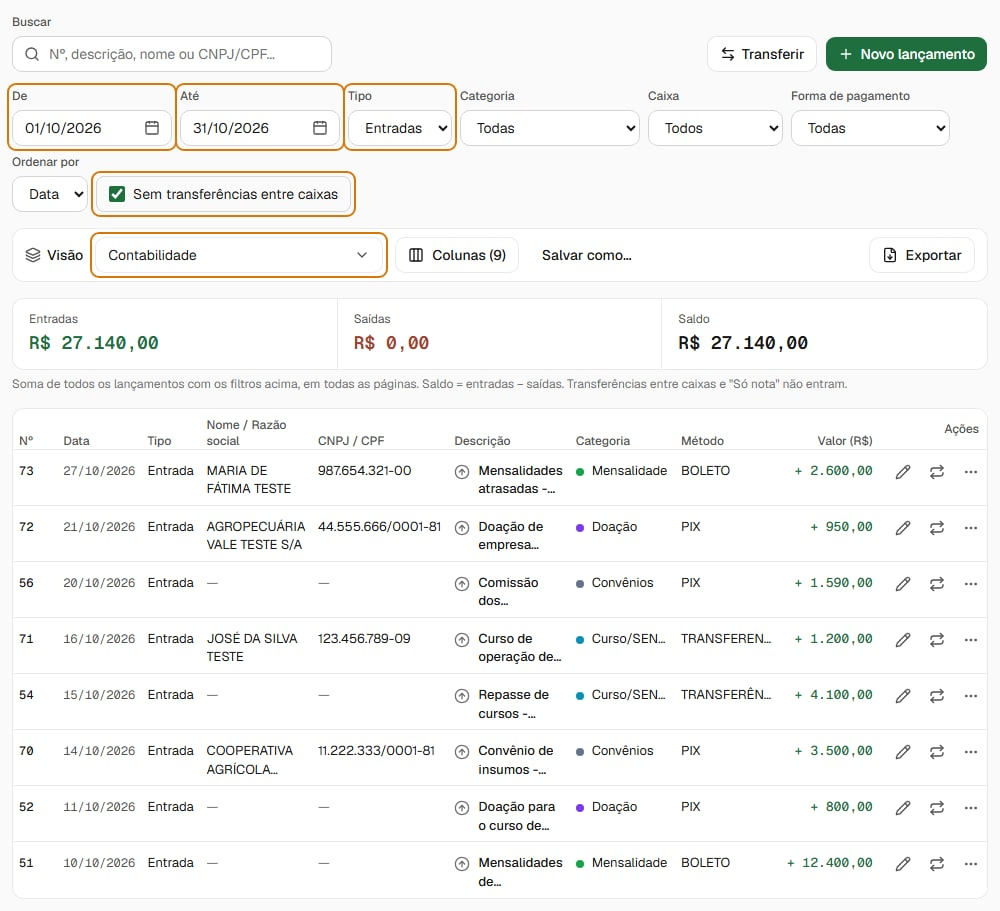
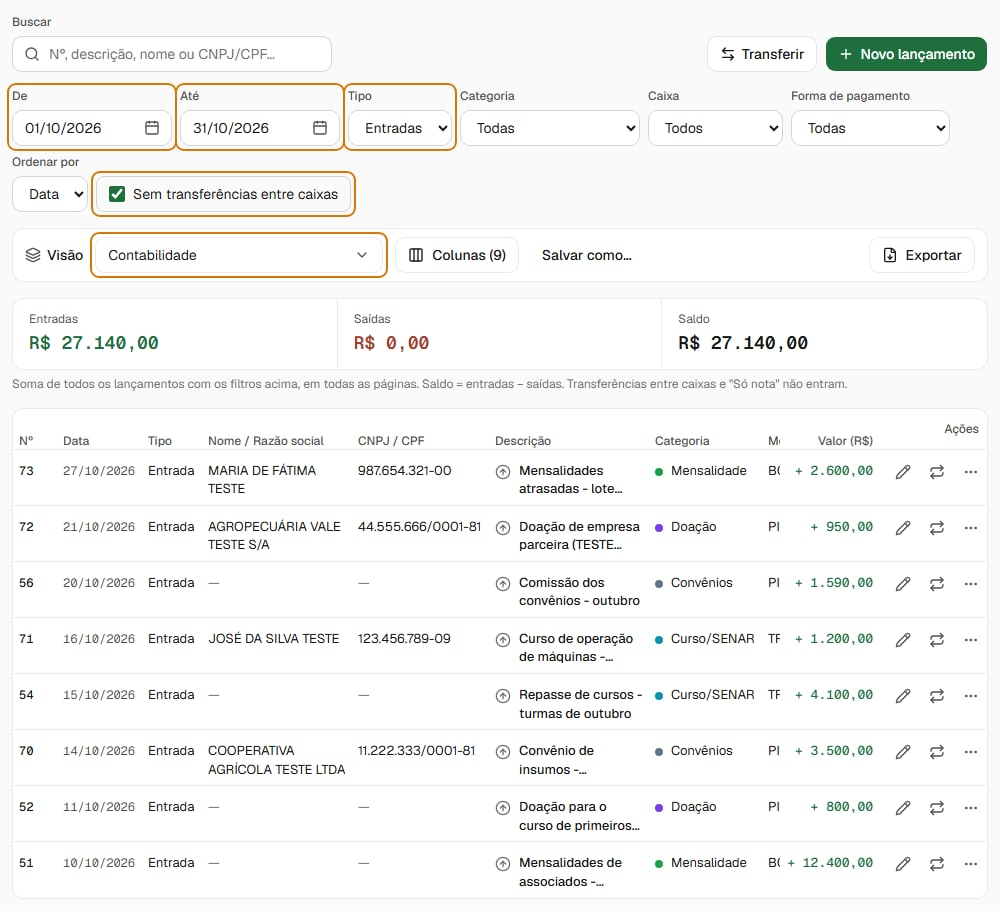
Ajuda: prints da SR-153 e acertos da homologação (SR-151)
Os prints 01, 02, 03, 04, 06 e 07 das visões trocam pelos refeitos depois
da SR-153. Visões e relatório de receitas dizem que, quando a tabela rola
de lado, o Valor (R$) e Ações ficam presos à direita. Visões e Auditoria
deixam claro que o "O que mudou" aparece no Editou e no Excluiu, e não
no Criou. Banners: título só de pontuação não é lido pelo leitor de tela.

diff --git a/src/lib/help/articles/como-usar-visoes.md b/src/lib/help/articles/como-usar-visoes.md
@@ -29,7 +29,7 @@ A barra da visão fica na aba **Lançamentos**, entre os filtros e os totais
 
 **Transferir** e **Novo lançamento** continuam no alto, ao lado do **Buscar**.
 
-![A aba Lançamentos com a visão Contabilidade: os filtros em cima, a barra da visão com Visão, Colunas (9), Salvar como… e Exportar, os totais e a tabela com as 9 colunas](/ajuda-imagens/visoes/02-contabilidade-aplicada.jpg "A barra da visão fica entre os filtros e os totais. O contorno marca o que a visão ligou.")
+![A aba Lançamentos com a visão Contabilidade: os filtros em cima, a barra da visão com Visão, Colunas (9), Salvar como… e Exportar, os totais e a tabela com as 9 colunas, que rola de lado com o Valor (R$) e as Ações presos à direita](/ajuda-imagens/visoes/02-contabilidade-aplicada.jpg "A barra da visão fica entre os filtros e os totais. O contorno marca o que a visão ligou.")
 
 ## Antes de começar
 
@@ -106,8 +106,9 @@ Algumas regras:
 - A lista fica sempre com pelo menos uma coluna.
 - **Ações** (os botões da linha) não é coluna que se escolhe: fica sempre por
   último.
-- Quando as colunas não cabem na largura da tela, a tabela rola de lado, e a
-  coluna **Ações** fica presa à direita.
+- Quando as colunas não cabem na largura da tela, a tabela rola de lado. A
+  coluna **Valor (R$)** e **Ações** ficam presas à direita, sempre à vista. Sem
+  o **Valor (R$)** na visão, só **Ações** fica presa.
 - **Voltar ao padrão da visão** desfaz as mudanças e põe de novo as colunas e os
   filtros da visão.
 
@@ -286,9 +287,10 @@ relatório…** continuam iguais. Veja [Exportar planilhas](?topico=exportar-pla
 
 - **As visões da equipe:** criar, salvar alterações, renomear e excluir ficam na
   [Auditoria](?topico=auditoria), no tipo **Visão da lista**. A frase diz, por
-  exemplo, *Criou a visão "Lançamentos: Receitas para o contador"*. Abrindo a
-  linha, **O que mudou** mostra o **Nome**, os **Campos** e os **Filtros**, em
-  palavras.
+  exemplo, *Criou a visão "Lançamentos: Receitas para o contador"*. Nas linhas
+  **Editou** e **Excluiu**, **O que mudou** mostra o **Nome**, os **Campos** e os
+  **Filtros**, em palavras. A linha **Criou** não tem **O que mudou**, como toda
+  criação no sistema.
 - **Cada exportação:** fica registrada como as das outras listas, com quem
   baixou e quando. No bloco **O que foi exportado**, o nome da visão aparece em
   **Modelo**.

diff --git a/src/lib/help/articles/como-gerar-relatorio-de-receitas.md b/src/lib/help/articles/como-gerar-relatorio-de-receitas.md
@@ -43,11 +43,14 @@ Lançamentos.
    **Entradas** mostra a soma do que ficou na lista: confira se é o valor que
    você espera.
 
+   Se as colunas não couberem na tela, a tabela rola de lado. O **Valor (R$)**
+   fica preso à direita, sempre à vista.
+
    Precisa de outro mês? Mude **De** e **Até**. O nome da visão passa a
    **Contabilidade (alterada)**: é só um lembrete, e o arquivo sai do mesmo
    jeito. Se quiser, filtre também por **Caixa** ou **Categoria**.
 
-   ![A visão Contabilidade aplicada: os filtros De e Até com outubro, Tipo em Entradas e Sem transferências entre caixas marcada, a barra da visão, os totais e a tabela com as 9 colunas](/ajuda-imagens/visoes/02-contabilidade-aplicada.jpg "O que a visão Contabilidade ligou na tela (o contorno é só para destacar).")
+   ![A visão Contabilidade aplicada: os filtros De e Até com outubro, Tipo em Entradas e Sem transferências entre caixas marcada, a barra da visão, os totais e a tabela com as 9 colunas, com o Valor (R$) e as Ações presos à direita](/ajuda-imagens/visoes/02-contabilidade-aplicada.jpg "O que a visão Contabilidade ligou na tela (o contorno é só para destacar).")
 
 3. Clique em **Exportar**, no fim da barra. Confira o resumo: quantos
    lançamentos, **9 colunas** e **Visão: Contabilidade**. Embaixo, a linha dos

diff --git a/src/lib/help/articles/auditoria.md b/src/lib/help/articles/auditoria.md
@@ -169,10 +169,11 @@ Elas têm o tipo próprio **Visão da lista**, no filtro **Tipo**:
 - *Editou a visão "Lançamentos: Receitas para o contador"*
 - *Excluiu a visão "Lançamentos: Receitas para o contador"*
 
-Abrindo a linha, **O que mudou** mostra o **Nome**, os **Campos** e os
-**Filtros**, em palavras, como *Tipo: Entrada · Sem transferências entre caixas
-· Período: mês passado*. Numa exclusão, a coluna **Antes** guarda o que a visão
-tinha. As linhas gravadas antes das visões continuam com o tipo **Modelo de
+Nas linhas **Editou** e **Excluiu**, **O que mudou** mostra o **Nome**, os
+**Campos** e os **Filtros**, em palavras, como *Tipo: Entrada · Sem
+transferências entre caixas · Período: mês passado*. A linha **Criou** não tem
+**O que mudou**, como toda criação no sistema. Numa exclusão, a coluna **Antes**
+guarda o que a visão tinha. As linhas gravadas antes das visões continuam com o tipo **Modelo de
 relatório**.
 
 ## Exportar a trilha

diff --git a/src/lib/help/articles/banners.md b/src/lib/help/articles/banners.md
@@ -21,11 +21,13 @@ O que o site mostra depende do **Subtítulo** e dos **Botões** do banner:
 
 No banner só de cartaz, **o título não aparece na tela**. Ele continua
 obrigatório: é lido em voz alta para quem usa leitor de tela e é o nome do
-banner aqui no painel.
+banner aqui no painel. Título só de pontuação, como ".", não é lido: o leitor de
+tela ouve só *Aviso do Sindicato Rural de Terra Roxa*.
 
 **Se o cartaz já traz o texto**, deixe o **Subtítulo** e os **Botões** vazios,
 e escreva no **Título** o que o cartaz anuncia, como *Feliz Natal*. Assim o
-texto não aparece duas vezes.
+texto não aparece duas vezes, e quem não enxerga o cartaz fica sabendo o que ele
+diz.
 
 ## O período
 

diff --git a/src/lib/help/articles/como-colocar-banner.md b/src/lib/help/articles/como-colocar-banner.md
@@ -31,7 +31,9 @@ botão continua com o texto ao lado do cartaz.
 
 **Se o cartaz já traz o texto**, deixe o **Subtítulo** e os **Botões** vazios.
 O **Título** continua obrigatório: escreva o que o cartaz anuncia, como *Feliz
-Natal*.
+Natal*. É ele que o leitor de tela lê para quem não enxerga o cartaz. Título só
+de pontuação, como ".", não é lido: a pessoa ouve só *Aviso do Sindicato Rural
+de Terra Roxa*.
 
 ## Conferindo se está no ar
 
